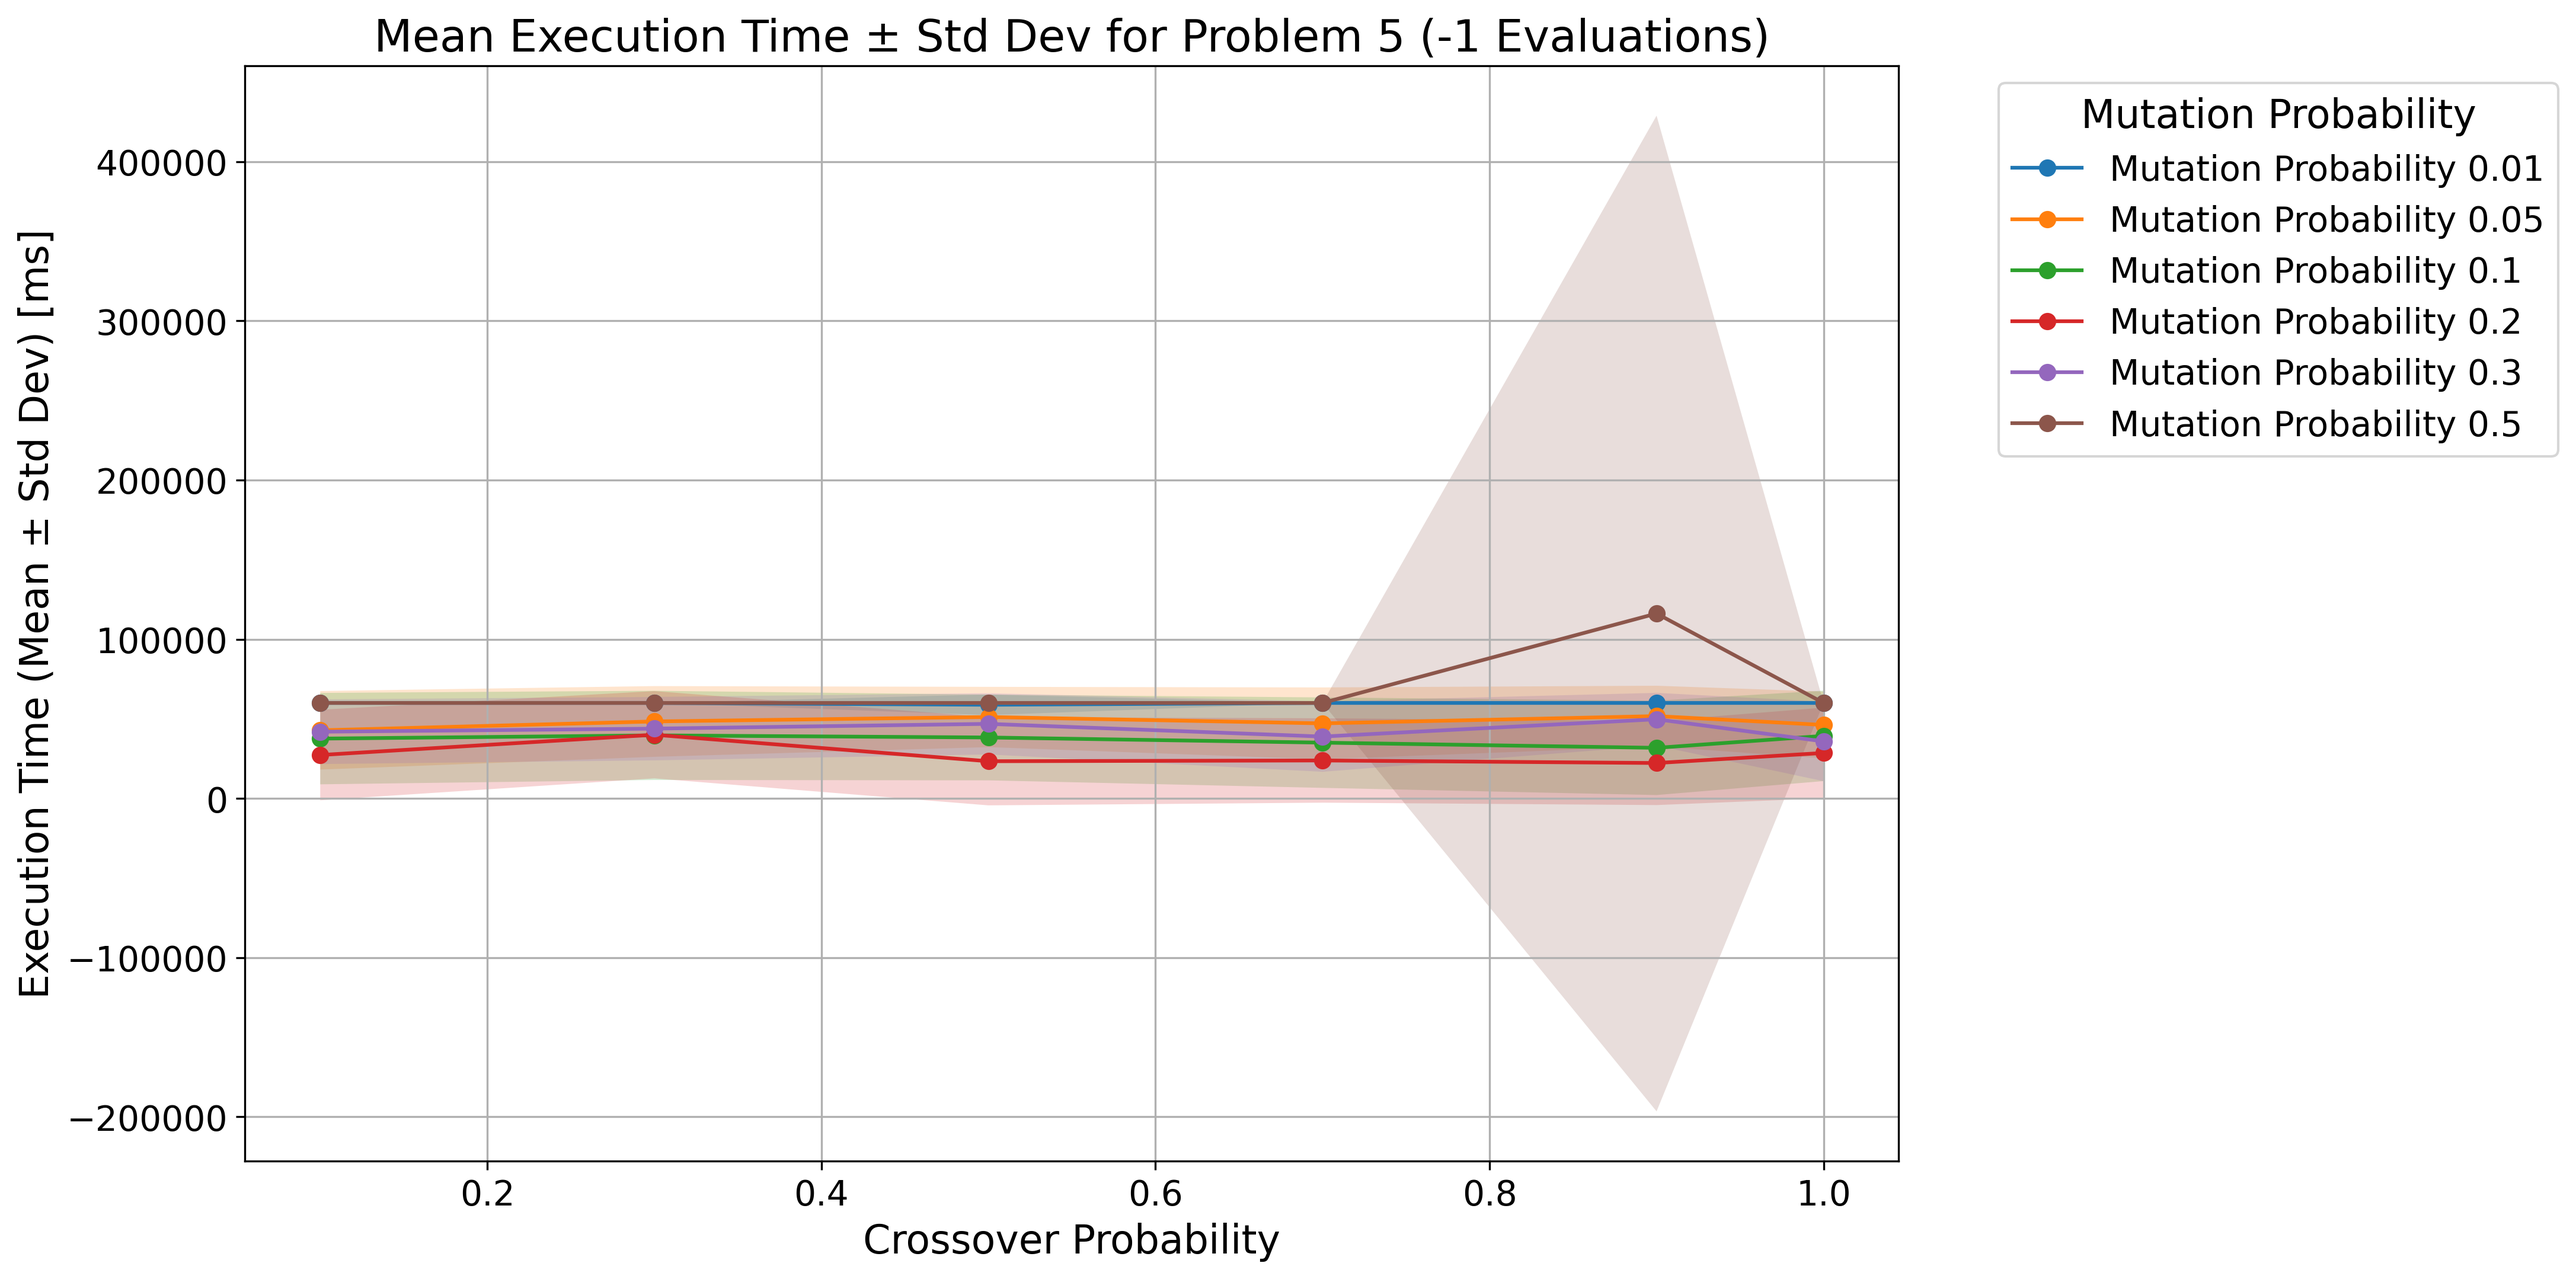
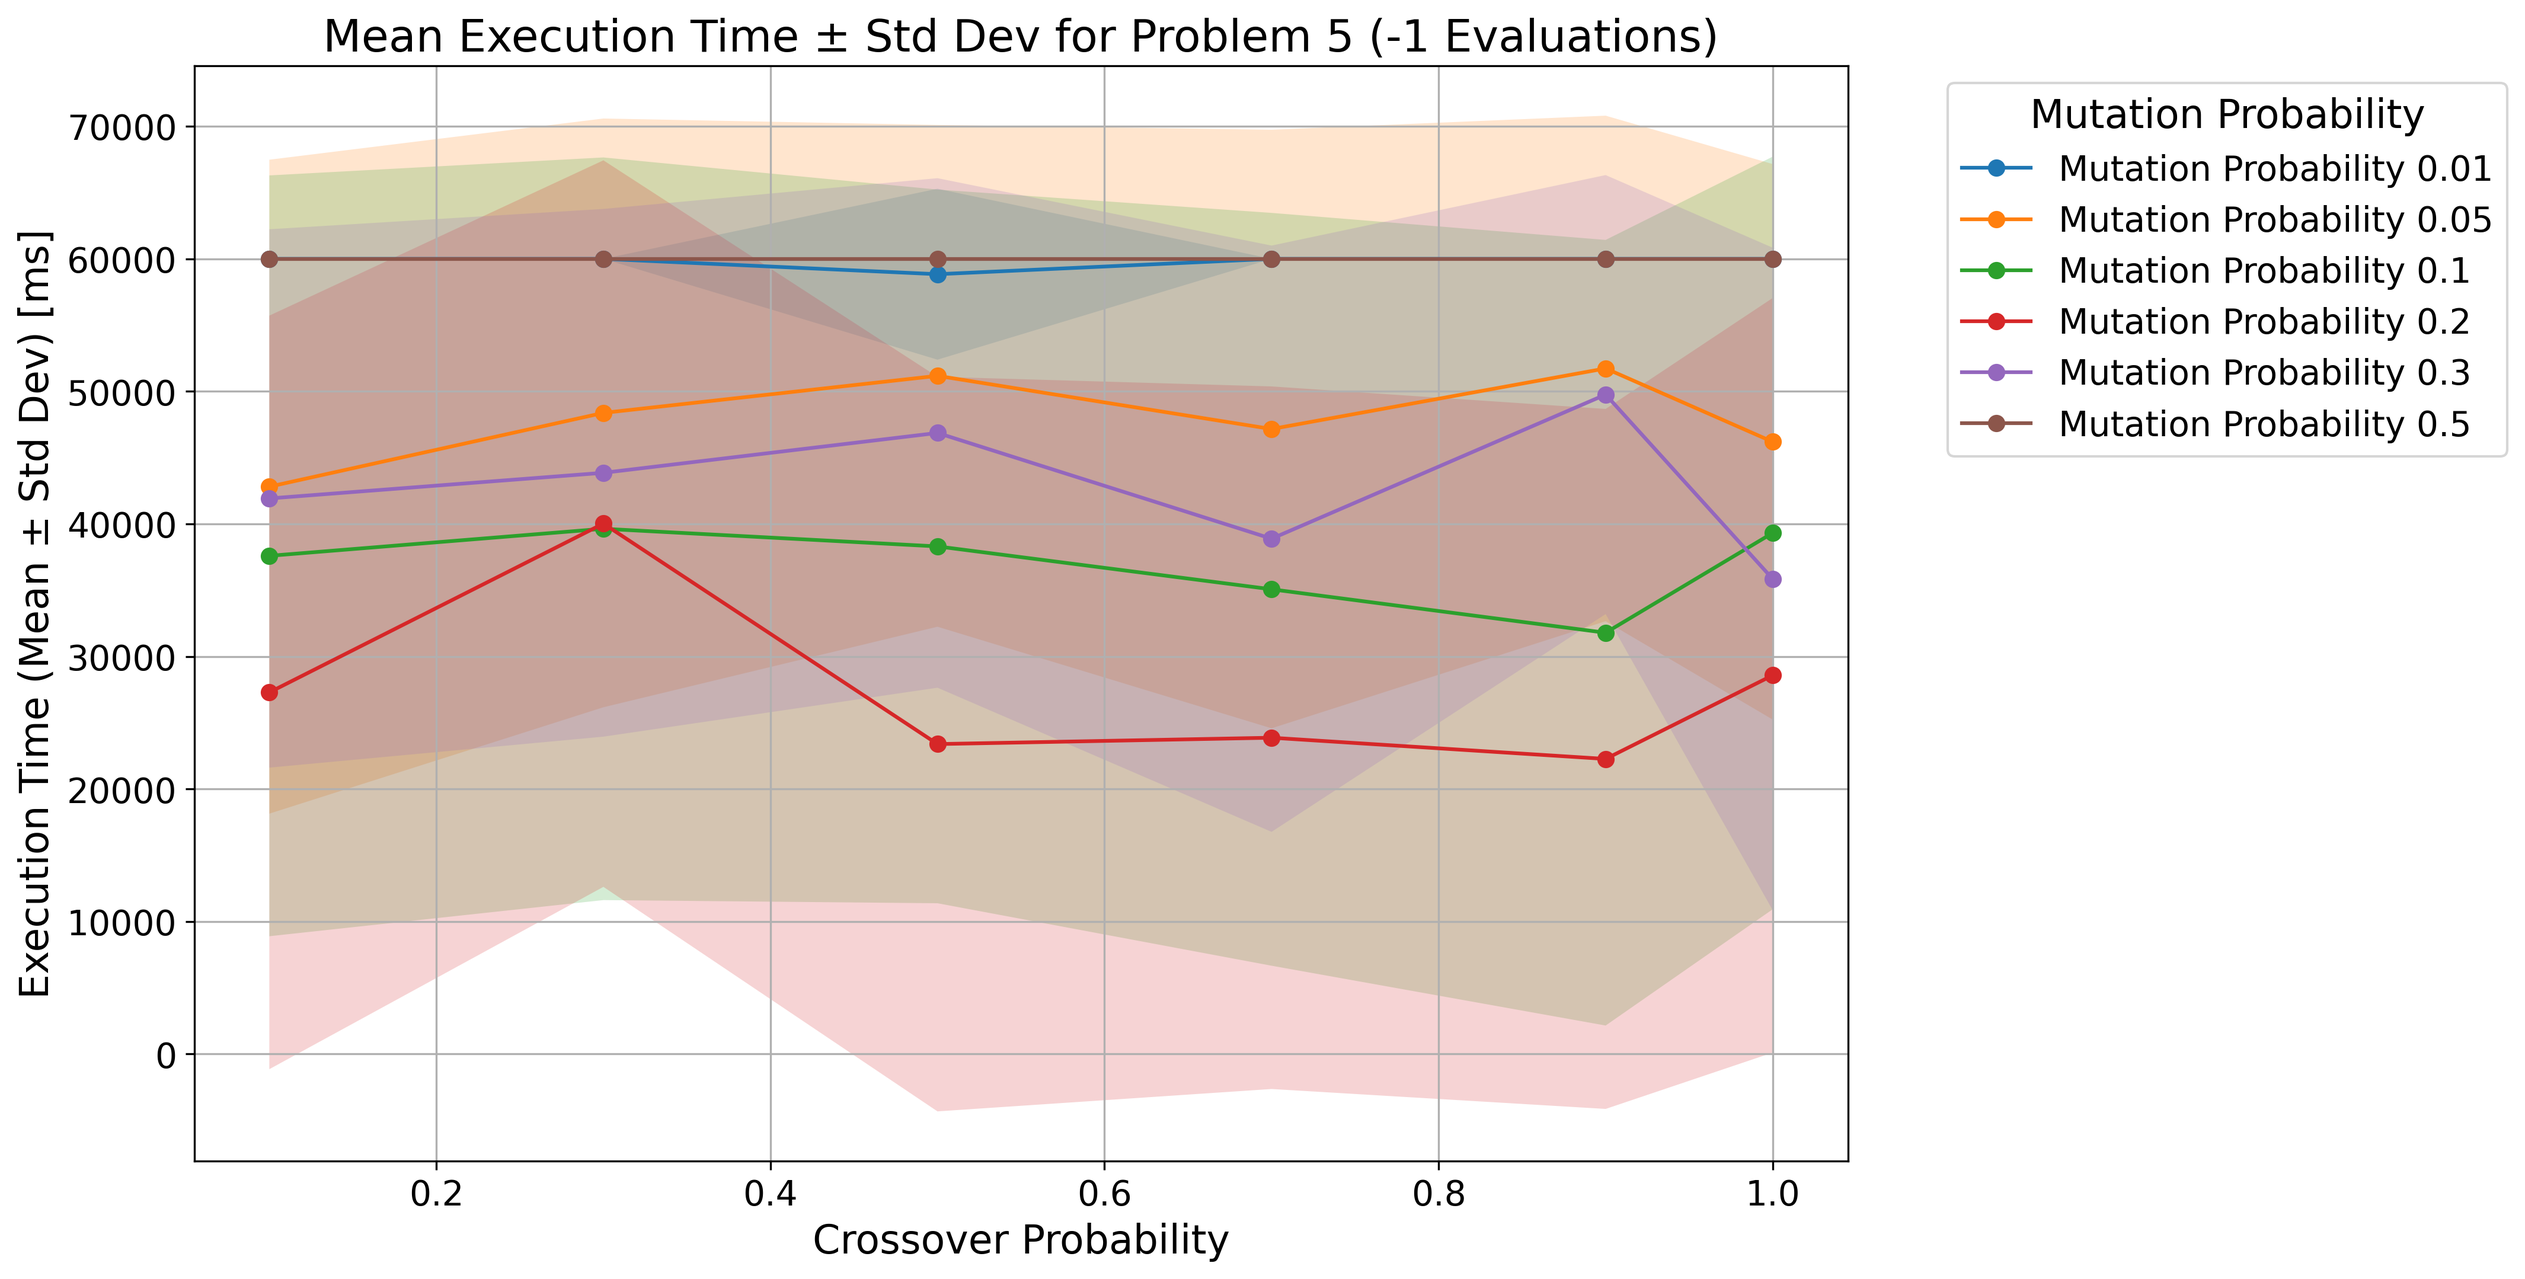
Fix error in results
Change:

/home/javier/Documents/Graduate/UIMP_MUIIA/2_METAHURISTICOS/assignments/project/KnapsackGeneticAlgorithm/results/experiment_all/function_evaluations_-1/problem_5/crossover_0.9/mutation_0.5/results_3.json
"executionTime": 1801039, -> 60000

diff --git a/analysis/-1_evaluations/problem_5.tex b/analysis/-1_evaluations/problem_5.tex
@@ -34,7 +34,7 @@ Crossover Probability & Mutation Probability & Mean Fitness & Std Fitness & Mean
 0.90 & 0.10 & 10608.71 & 10.45 & 31788.65 & 29639.23 \\
 0.90 & 0.20 & 10613.42 & 7.78 & 22266.77 & 26408.85 \\
 0.90 & 0.30 & 10606.03 & 10.91 & 49760.06 & 16561.64 \\
-0.90 & 0.50 & 10476.23 & 33.78 & 116162.55 & 312699.84 \\
+0.90 & 0.50 & 10476.23 & 33.78 & 60000.00 & 0.00 \\
 1.00 & 0.01 & 10544.39 & 44.80 & 60000.00 & 0.00 \\
 1.00 & 0.05 & 10602.65 & 16.97 & 46194.55 & 20957.90 \\
 1.00 & 0.10 & 10604.71 & 15.97 & 39316.29 & 28395.24 \\
